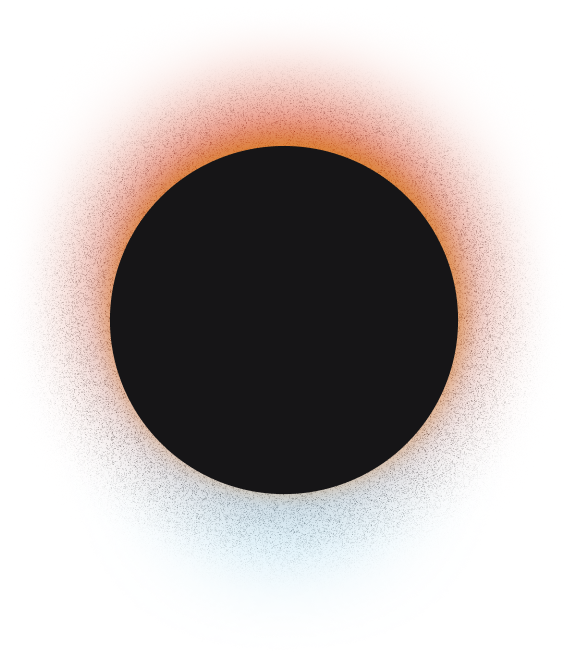
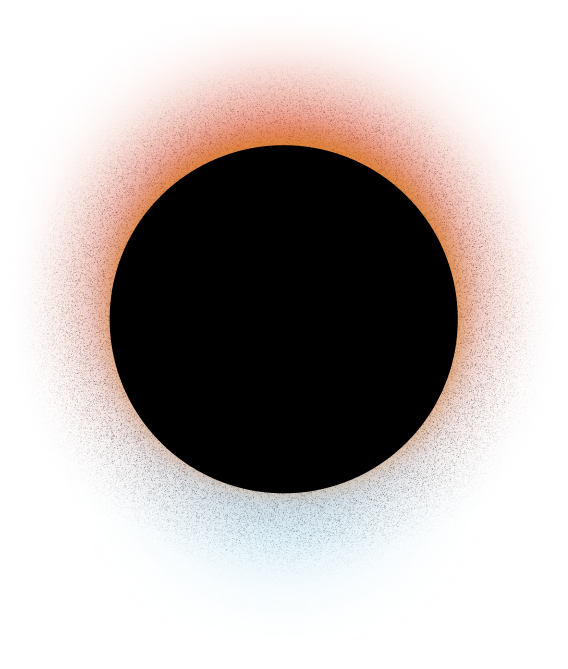
Updated content and fixed landing hero bottom line issue

diff --git a/apps/landing/src/sections/mobile/About/AboutFive.tsx b/apps/landing/src/sections/mobile/About/AboutFive.tsx
@@ -1,0 +1,52 @@
+import React from "react";
+import GradientFive from "@/assets/images/gradient 5.png"
+
+const AboutFive: React.FC = () => {
+    return (
+        <div className="flex flex-col w-full gap-[var(--px-90)] mt-[var(--px-400)] relative z-20">
+            <div className="flex flex-col gap-[var(--px-10)] w-full z-15">
+                <div className="text-[length:var(--px-43)] font-bold font-helvetica uppercase leading-[var(--px-43)] w-full text-left">
+                    The Team
+                </div>
+                <div className="text-[length:var(--px-18)] font-helvetica tracking-[var(--px-0-5)] font-medium flex flex-col gap-[var(--px-10)]">
+                    Resomix was born from the same frustration  working DJ knows - spending hours digging through fragmented platforms for one track that fits.
+                    <span className="font-light text-[length:var(--px-17)]">
+                        We're a small team of DJs, signal processing engineers, and music industry professionals based in Greece, building the discovery tool we always wished existed.
+                    </span>
+                    <br />
+                    <span className="font-light text-[length:var(--px-17)]">
+                        Reform Studios · Thessaloniki, Greece Reach us anytime: support@resomix.com
+                    </span>
+                </div>
+            </div>
+            <div className="w-full flex flex-col gap-[var(--px-500)]">
+                {/* Graphics Overlay */}
+                <div className="absolute -top-[var(--px-150)] w-[var(--px-622)] -right-[var(--px-170)] pointer-events-none z-5">
+                    <img src={GradientFive} draggable={false} aria-hidden="true" loading="lazy" alt="gradient_five" className="w-full h-auto" />
+                </div>
+
+                {/* Content */}
+                <div className="flex flex-col w-full z-15 items-end justify-between">
+                    <div className="text-[length:var(--px-43)] font-bold font-helvetica uppercase leading-[var(--px-43)] w-full text-right">
+                        FROM THE FOUNDER
+                    </div>
+                    <div className="flex flex-col gap-[var(--px-10)] mt-[var(--px-40)]">
+                        <div className="text-[length:var(--px-18)] font-helvetica font-medium flex flex-col gap-[var(--px-10)] text-left">
+                            I discovered electronic music through Italian progressive house radio in the late 1990s. Two decades of DJing, producing, and running Reform Studios taught me one thing: finding the right track is the hardest part of the creative process.
+                            <br />
+                            <span className="font-extralight">
+                                Resomix is the tool I needed and couldn't find. Built on signal processing, not hype.
+                            </span>
+                            <br />
+                            <span className="font-extralight">
+                                — Qyra<br />Founder & CEO, Reform Studios
+                            </span>
+                        </div>
+                    </div>
+                </div>
+            </div>
+        </div>
+    );
+};
+
+export default AboutFive;

diff --git a/apps/landing/src/sections/desktop/About/AboutFive.tsx b/apps/landing/src/sections/desktop/About/AboutFive.tsx
@@ -1,0 +1,51 @@
+import React from "react";
+import GradientFive from "@/assets/images/gradient 5.png"
+
+const AboutFive: React.FC = () => {
+    return (
+        <div className="flex flex-col w-full gap-[var(--px-120)] mt-[var(--px-400)] relative z-20">
+            <div className="flex flex-col gap-[var(--px-10)] w-full z-15">
+                <div className="text-[length:var(--px-52)] font-medium font-helvetica uppercase leading-[var(--px-60)] ml-[var(--px-60)]">
+                    The Team
+                </div>
+                <div className="text-[length:var(--px-17)] font-helvetica tracking-[var(--px-1)]">
+                    Resomix was born from the same frustration  working DJ knows - spending hours digging through fragmented platforms for one track that fits.
+                    <br />
+                    <span className="font-extralight">
+                        We're a small team of DJs, signal processing engineers, and music industry professionals based in Greece, building the discovery tool we always wished existed.
+                    </span>
+                    <br />
+                    <span className="font-extralight">
+                        Reform Studios · Thessaloniki, Greece Reach us anytime: support@resomix.com
+                    </span>
+                </div>
+            </div>
+            <div className="w-full flex flex-col gap-[var(--px-500)]">
+                {/* Graphics Overlay */}
+                <div className="absolute -top-[var(--px-190)] w-[var(--px-700)] -right-[var(--px-200)] pointer-events-none z-5">
+                    <img src={GradientFive} aria-hidden="true" loading="lazy" draggable={false} alt="gradient_five" className="w-full h-auto" />
+                </div>
+
+                {/* Content */}
+                <div className="flex w-full z-15 items-end justify-between">
+                    <div className="text-[length:var(--px-17)] font-helvetica tracking-[var(--px-1)]">
+                        I discovered electronic music through Italian progressive house radio in the late 1990s. Two decades of DJing, producing, and running Reform Studios taught me one thing: finding the right track is the hardest part of the creative process.
+                        <br />
+                        <span className="font-extralight">
+                            Resomix is the tool I needed and couldn't find. Built on signal processing, not hype.
+                        </span>
+                        <br />
+                        <span className="font-extralight">
+                            — Qyra<br />Founder & CEO, Reform Studios
+                        </span>
+                    </div>
+                    <div className="text-[length:var(--px-52)] font-medium font-helvetica uppercase leading-[var(--px-60)] ml-[var(--px-60)] text-right">
+                        From the Founder
+                    </div>
+                </div>
+            </div>
+        </div>
+    );
+};
+
+export default AboutFive;

diff --git a/apps/landing/src/sections/mobile/About/AboutFour.tsx b/apps/landing/src/sections/mobile/About/AboutFour.tsx
@@ -73,25 +73,6 @@ const AboutFour: React.FC = () => {
                     window.location.href = BASE_BETA_URL
                 }} transparent={true} link_arrow={true} className="cta-button secondary" id="about-four-try-now-button" />
             </div>
-
-            {/* About 2 B */}
-            <div className="flex flex-col gap-[var(--px-100)] w-full z-15">
-                <div className="text-[length:var(--px-22)] font-helvetica uppercase leading-[var(--px-26)] tracking-[var(--px-0-5)] text-left w-full opacity-80">
-                    Resomix is run<br />by DJs, engineers,<br />and music<br />professionals
-                </div>
-                <div className="flex flex-col items-end w-full">
-                    <div className="text-[length:var(--px-22)] font-helvetica uppercase leading-[var(--px-26)] tracking-[var(--px-0-5)] text-right w-full opacity-80">
-                        We want to build<br />a better way to<br />discover and enjoy<br />music across genres
-                    </div>
-                    <a
-                      href="mailto:support@resomix.com"
-                      className="text-[length:var(--px-14)] font-helvetica leading-[var(--px-16)] tracking-[var(--px-1)] underline hover:cursor-pointer text-right w-full mt-[var(--px-10)] contact-link"
-                      id="about-four-contact-email"
-                    >
-                        Reach us anytime:<br />support@resomix.com
-                    </a>
-                </div>
-            </div>
         </div>
     );
 };

diff --git a/apps/landing/src/sections/desktop/About/AboutFour.tsx b/apps/landing/src/sections/desktop/About/AboutFour.tsx
@@ -75,19 +75,6 @@ const AboutFour: React.FC = () => {
                     window.location.href = BASE_BETA_URL
                 }} transparent={true} link_arrow={true} className="cta-button secondary" id="about-four-try-now-button" />
             </div>
-
-            {/* About 2 B */}
-            <div className="flex flex-col gap-[var(--px-200)] w-full z-15">
-                <div className="text-[length:var(--px-25)] font-extralight font-helvetica uppercase leading-[var(--px-25)] tracking-[var(--px-5)] text-left w-full" dangerouslySetInnerHTML={{ __html: t('about.about_four.run_by') }}>
-                </div>
-                <div className="flex flex-col items-end w-full">
-                    <div className="text-[length:var(--px-25)] font-extralight font-helvetica uppercase leading-[var(--px-25)] tracking-[var(--px-5)] text-right" dangerouslySetInnerHTML={{ __html: t('about.about_four.mission') }}>
-                    </div>
-                    <div className="text-[length:var(--px-17)] font-extralight font-helvetica leading-[var(--px-25)] tracking-[var(--px-1)] underline opacity-80 hover:opacity-100 transition-opacity duration-100 hover:cursor-pointer text-right w-full contact-link" id="about-four-contact-email">
-                        {t('about.about_four.contact_reach_us')} support@resomix.com
-                    </div>
-                </div>
-            </div>
         </div>
     );
 };

diff --git a/apps/landing/src/pages/mobile/AboutMobile.tsx b/apps/landing/src/pages/mobile/AboutMobile.tsx
@@ -1,9 +1,9 @@
-import { AboutHero, AboutOne, AboutTwo, AboutThree, AboutFour } from "@/sections/mobile/index.ts";
+import { AboutHero, AboutOne, AboutTwo, AboutThree, AboutFour, AboutFive } from "@/sections/mobile/index.ts";
 import AngleDown from "@/assets/icons/AngleDown.svg";
 
 export function AboutMobile() {
   return (
-    <div className="overflow-x-hidden">
+    <div className="overflow-hidden">
       <AboutHero />
       <img src={AngleDown} aria-label="arrow_down" loading="lazy" draggable={false} alt="arrow_down" className="w-[var(--px-50)] h-[var(--px-50)] w-full self-center my-[var(--px-50)]" />
       <div className="relative z-20 mt-[var(--px-60)]">
@@ -11,6 +11,7 @@ export function AboutMobile() {
         <AboutTwo />
         <AboutThree />
         <AboutFour />
+        <AboutFive />
       </div>
     </div>
   );

diff --git a/apps/landing/src/sections/desktop/About/AboutHero.tsx b/apps/landing/src/sections/desktop/About/AboutHero.tsx
@@ -15,9 +15,9 @@ const AboutHero: React.FC = () => {
     <div ref={sectionRef} className="relative">
       {/* Hidden SVG defs for clip-path */}
       <svg
-        viewBox="0 0 1154 628"
+        viewBox="0 0 1154 629"
         preserveAspectRatio="none"
-        className="absolute inset-0 w-[length:var(--px-1156)] h-[length:var(--px-628)] pointer-events-none z-10"
+        className="absolute inset-0 w-[length:var(--px-1156)] h-[length:var(--px-629)] pointer-events-none z-10"
       >
         <defs>
           <clipPath id="heroClip" clipPathUnits="objectBoundingBox">

diff --git a/apps/landing/src/sections/desktop/Home/HomeHero.tsx b/apps/landing/src/sections/desktop/Home/HomeHero.tsx
@@ -17,9 +17,9 @@ const HomeHero: React.FC = () => {
     <div ref={sectionRef} className="relative">
       {/* Hidden SVG defs for clip-path */}
       <svg
-        viewBox="0 0 1152 628"
+        viewBox="0 0 1152 629"
         preserveAspectRatio="none"
-        className="absolute inset-0 w-full h-[length:var(--px-628)] pointer-events-none z-10"
+        className="absolute inset-0 w-full h-[length:var(--px-629)] pointer-events-none z-10"
       >
         <defs>
           <clipPath id="heroClip" clipPathUnits="objectBoundingBox">

diff --git a/apps/landing/src/pages/desktop/AboutPage.tsx b/apps/landing/src/pages/desktop/AboutPage.tsx
@@ -1,13 +1,14 @@
-import { AboutHero, AboutOne, AboutTwo, AboutThree, AboutFour } from "@/sections/desktop/index.ts";
+import { AboutHero, AboutOne, AboutTwo, AboutThree, AboutFour, AboutFive } from "@/sections/desktop/index.ts";
 
 export function AboutPage() {
   return (
-    <div className="overflow-x-hidden">
+    <div className="overflow-hidden">
       <AboutHero />
       <AboutOne />
       <AboutTwo />
       <AboutThree />
       <AboutFour />
+      <AboutFive />
     </div>
   );
 }

diff --git a/apps/landing/src/styles/pixels.css b/apps/landing/src/styles/pixels.css
@@ -204,9 +204,14 @@
     --px-613: 38.3125rem;
     --px-621: 38.8125rem;
     --px-622: 38.875rem;
+    --px-623: 38.9375rem;
+    --px-624: 39rem;
+    --px-625: 39.0625rem;
     --px-626: 39.125rem;
+    --px-627: 39.1875rem;
     --px-627-5: 39.21875rem;
     --px-628: 39.25rem;
+    --px-629: 39.3125rem;
     --px-630: 39.375rem;
     --px-635: 39.6875rem;
     --px-636: 39.75rem;

diff --git a/apps/landing/src/sections/desktop/index.ts b/apps/landing/src/sections/desktop/index.ts
@@ -14,6 +14,7 @@ import AboutOne from "./About/AboutOne.tsx";
 import AboutTwo from "./About/AboutTwo.tsx";
 import AboutThree from "./About/AboutThree.tsx";
 import AboutFour from "./About/AboutFour.tsx";
+import AboutFive from "./About/AboutFive.tsx";
 
 export {
   HomeHero,
@@ -32,4 +33,5 @@ export {
   AboutTwo,
   AboutThree,
   AboutFour,
+  AboutFive,
 };

diff --git a/apps/landing/src/sections/mobile/index.ts b/apps/landing/src/sections/mobile/index.ts
@@ -14,6 +14,7 @@ import AboutOne from "./About/AboutOne.tsx";
 import AboutTwo from "./About/AboutTwo.tsx";
 import AboutThree from "./About/AboutThree.tsx";
 import AboutFour from "./About/AboutFour.tsx";
+import AboutFive from "./About/AboutFive.tsx";
 
 export {
   HomeOne,
@@ -32,4 +33,5 @@ export {
   AboutTwo,
   AboutThree,
   AboutFour,
+  AboutFive,
 };
